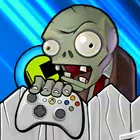
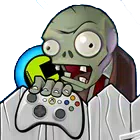
PNG

Changed region(s): [[0.0, 0.0, 1.0, 0.7429]]

diff --git a/PvzMods.html b/PvzMods.html
@@ -28,7 +28,7 @@
       </a>
       <!-- Fussion Niejo -->
       <a href="https://www.pvz.moe/resources/1084/history" target="_blank" class="icon">
-        <img src="images/Fussion Niejo.jpg" alt="PVZ Fussion Niejo">
+        <img src="images/Fussion Niejo.png" alt="PVZ Fussion Niejo">
         <span>PVZ Fussion Niejo</span>
       </a>
       <!-- PC -->
